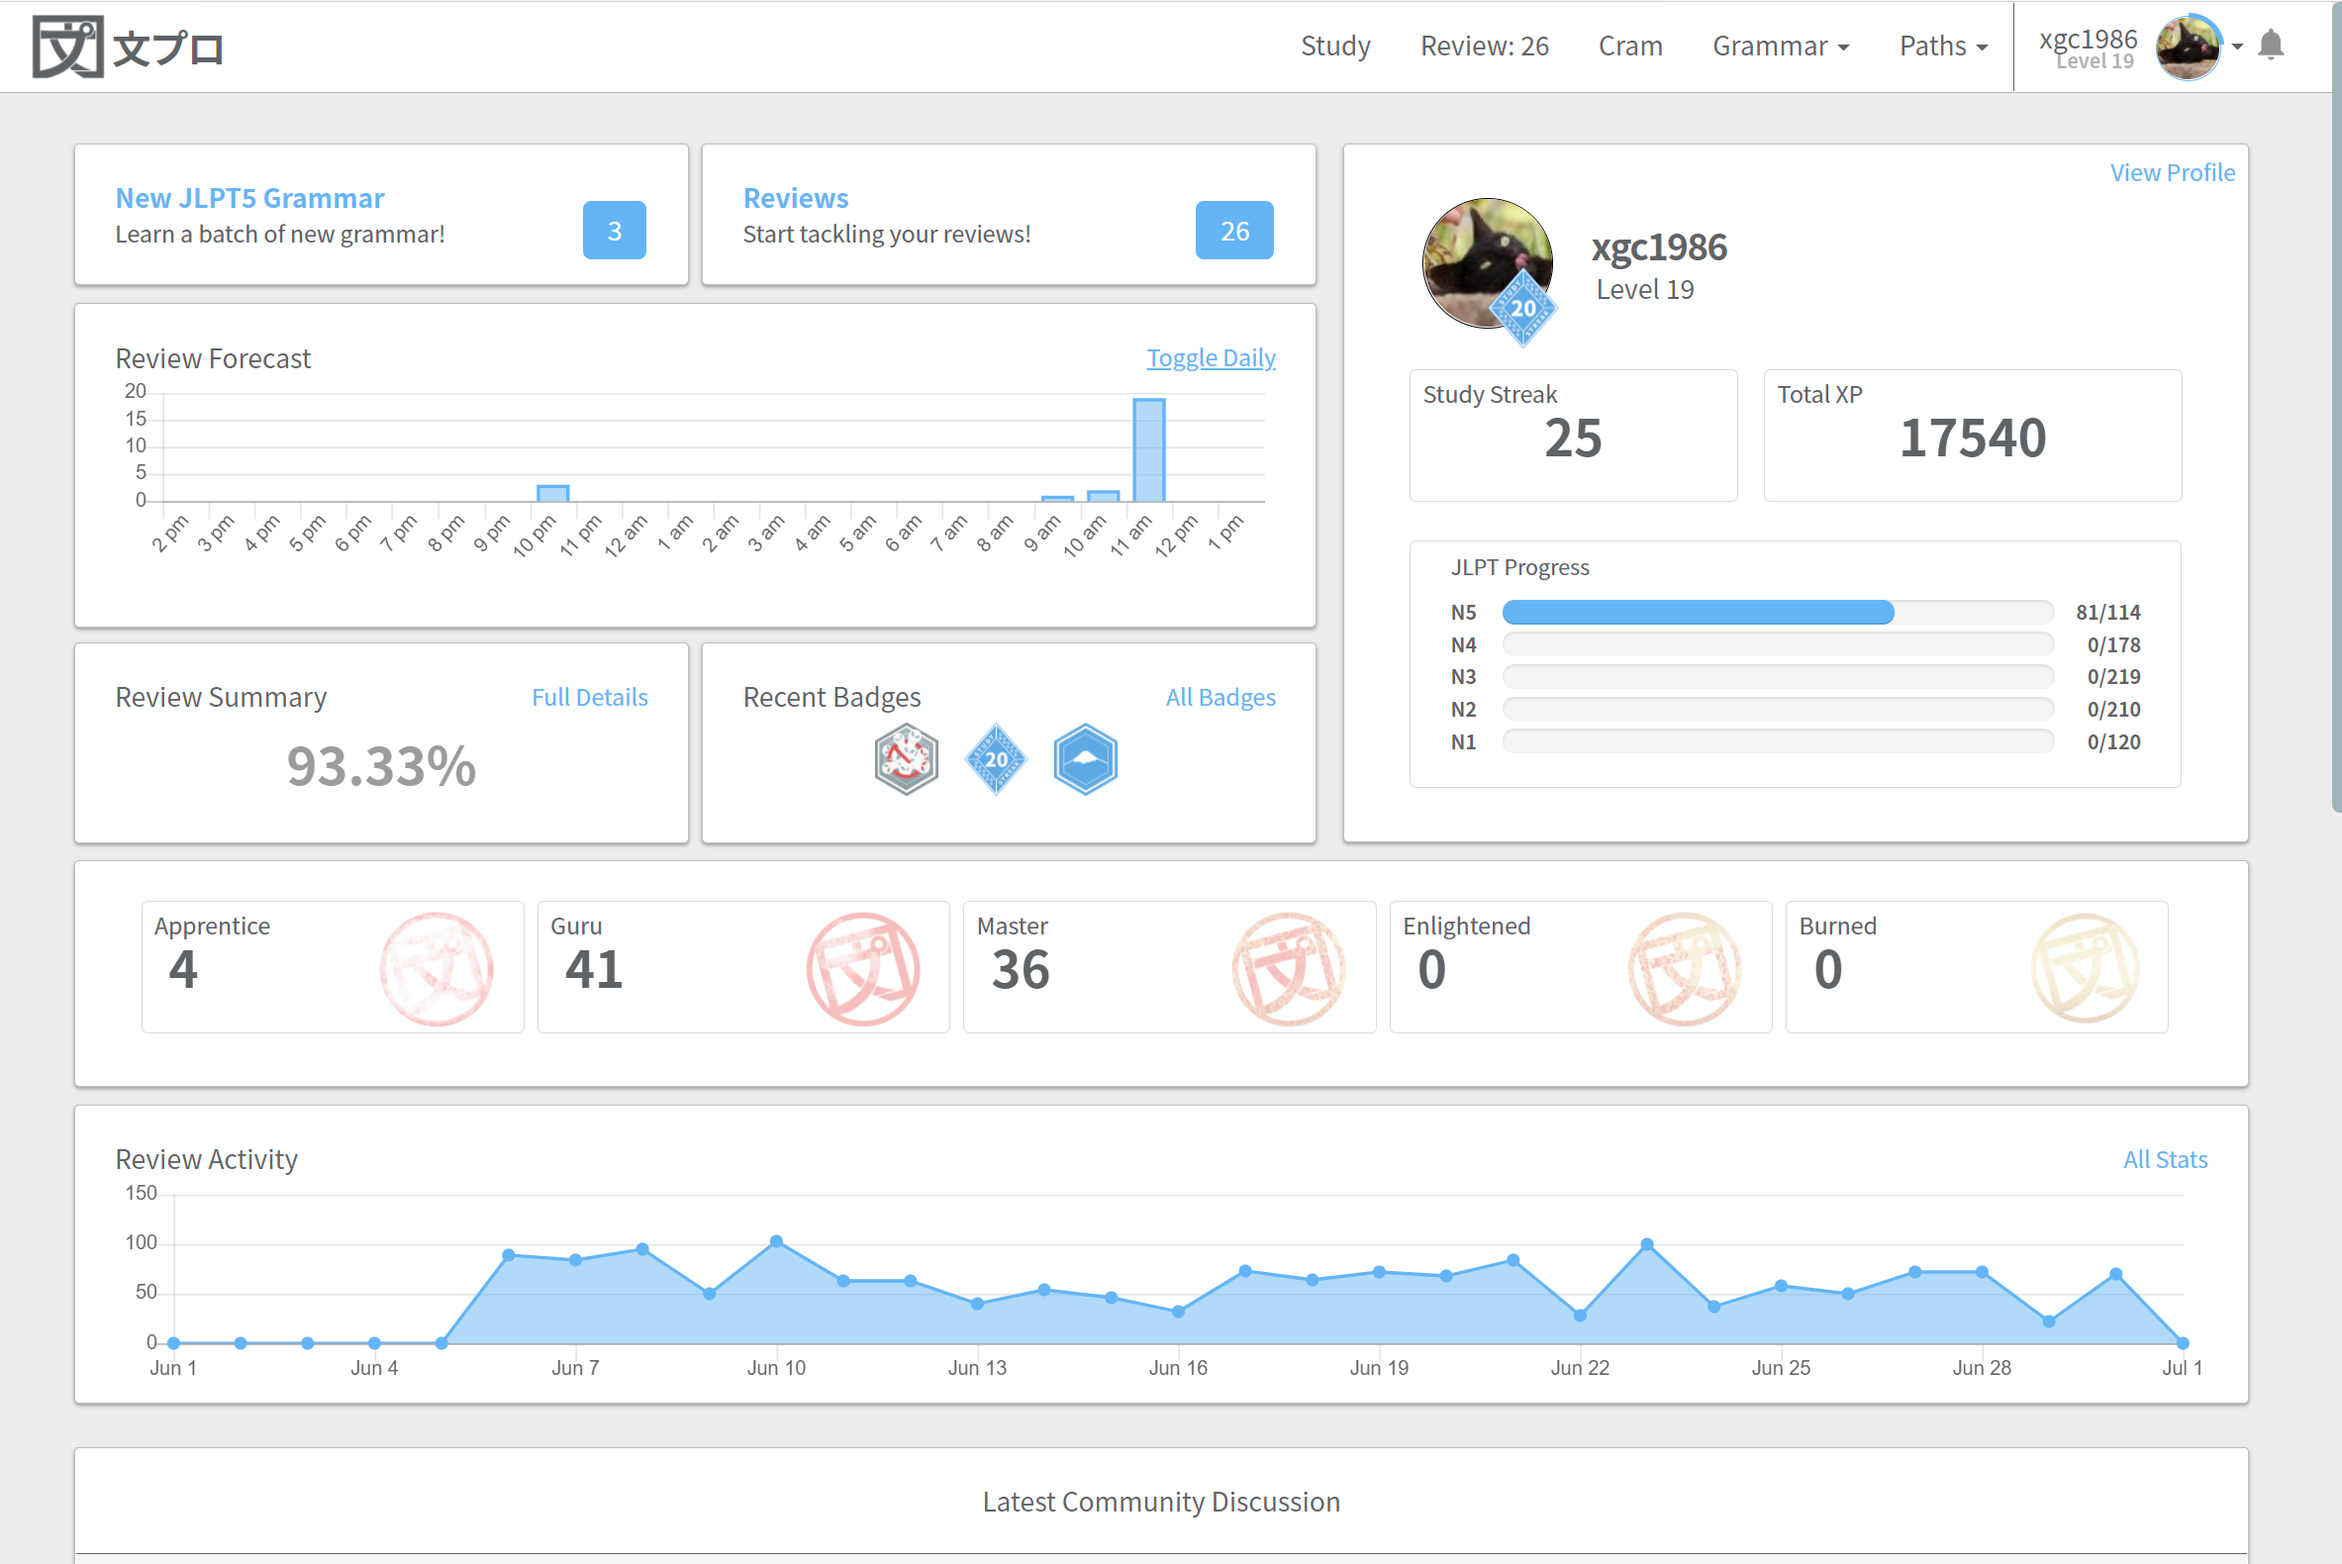
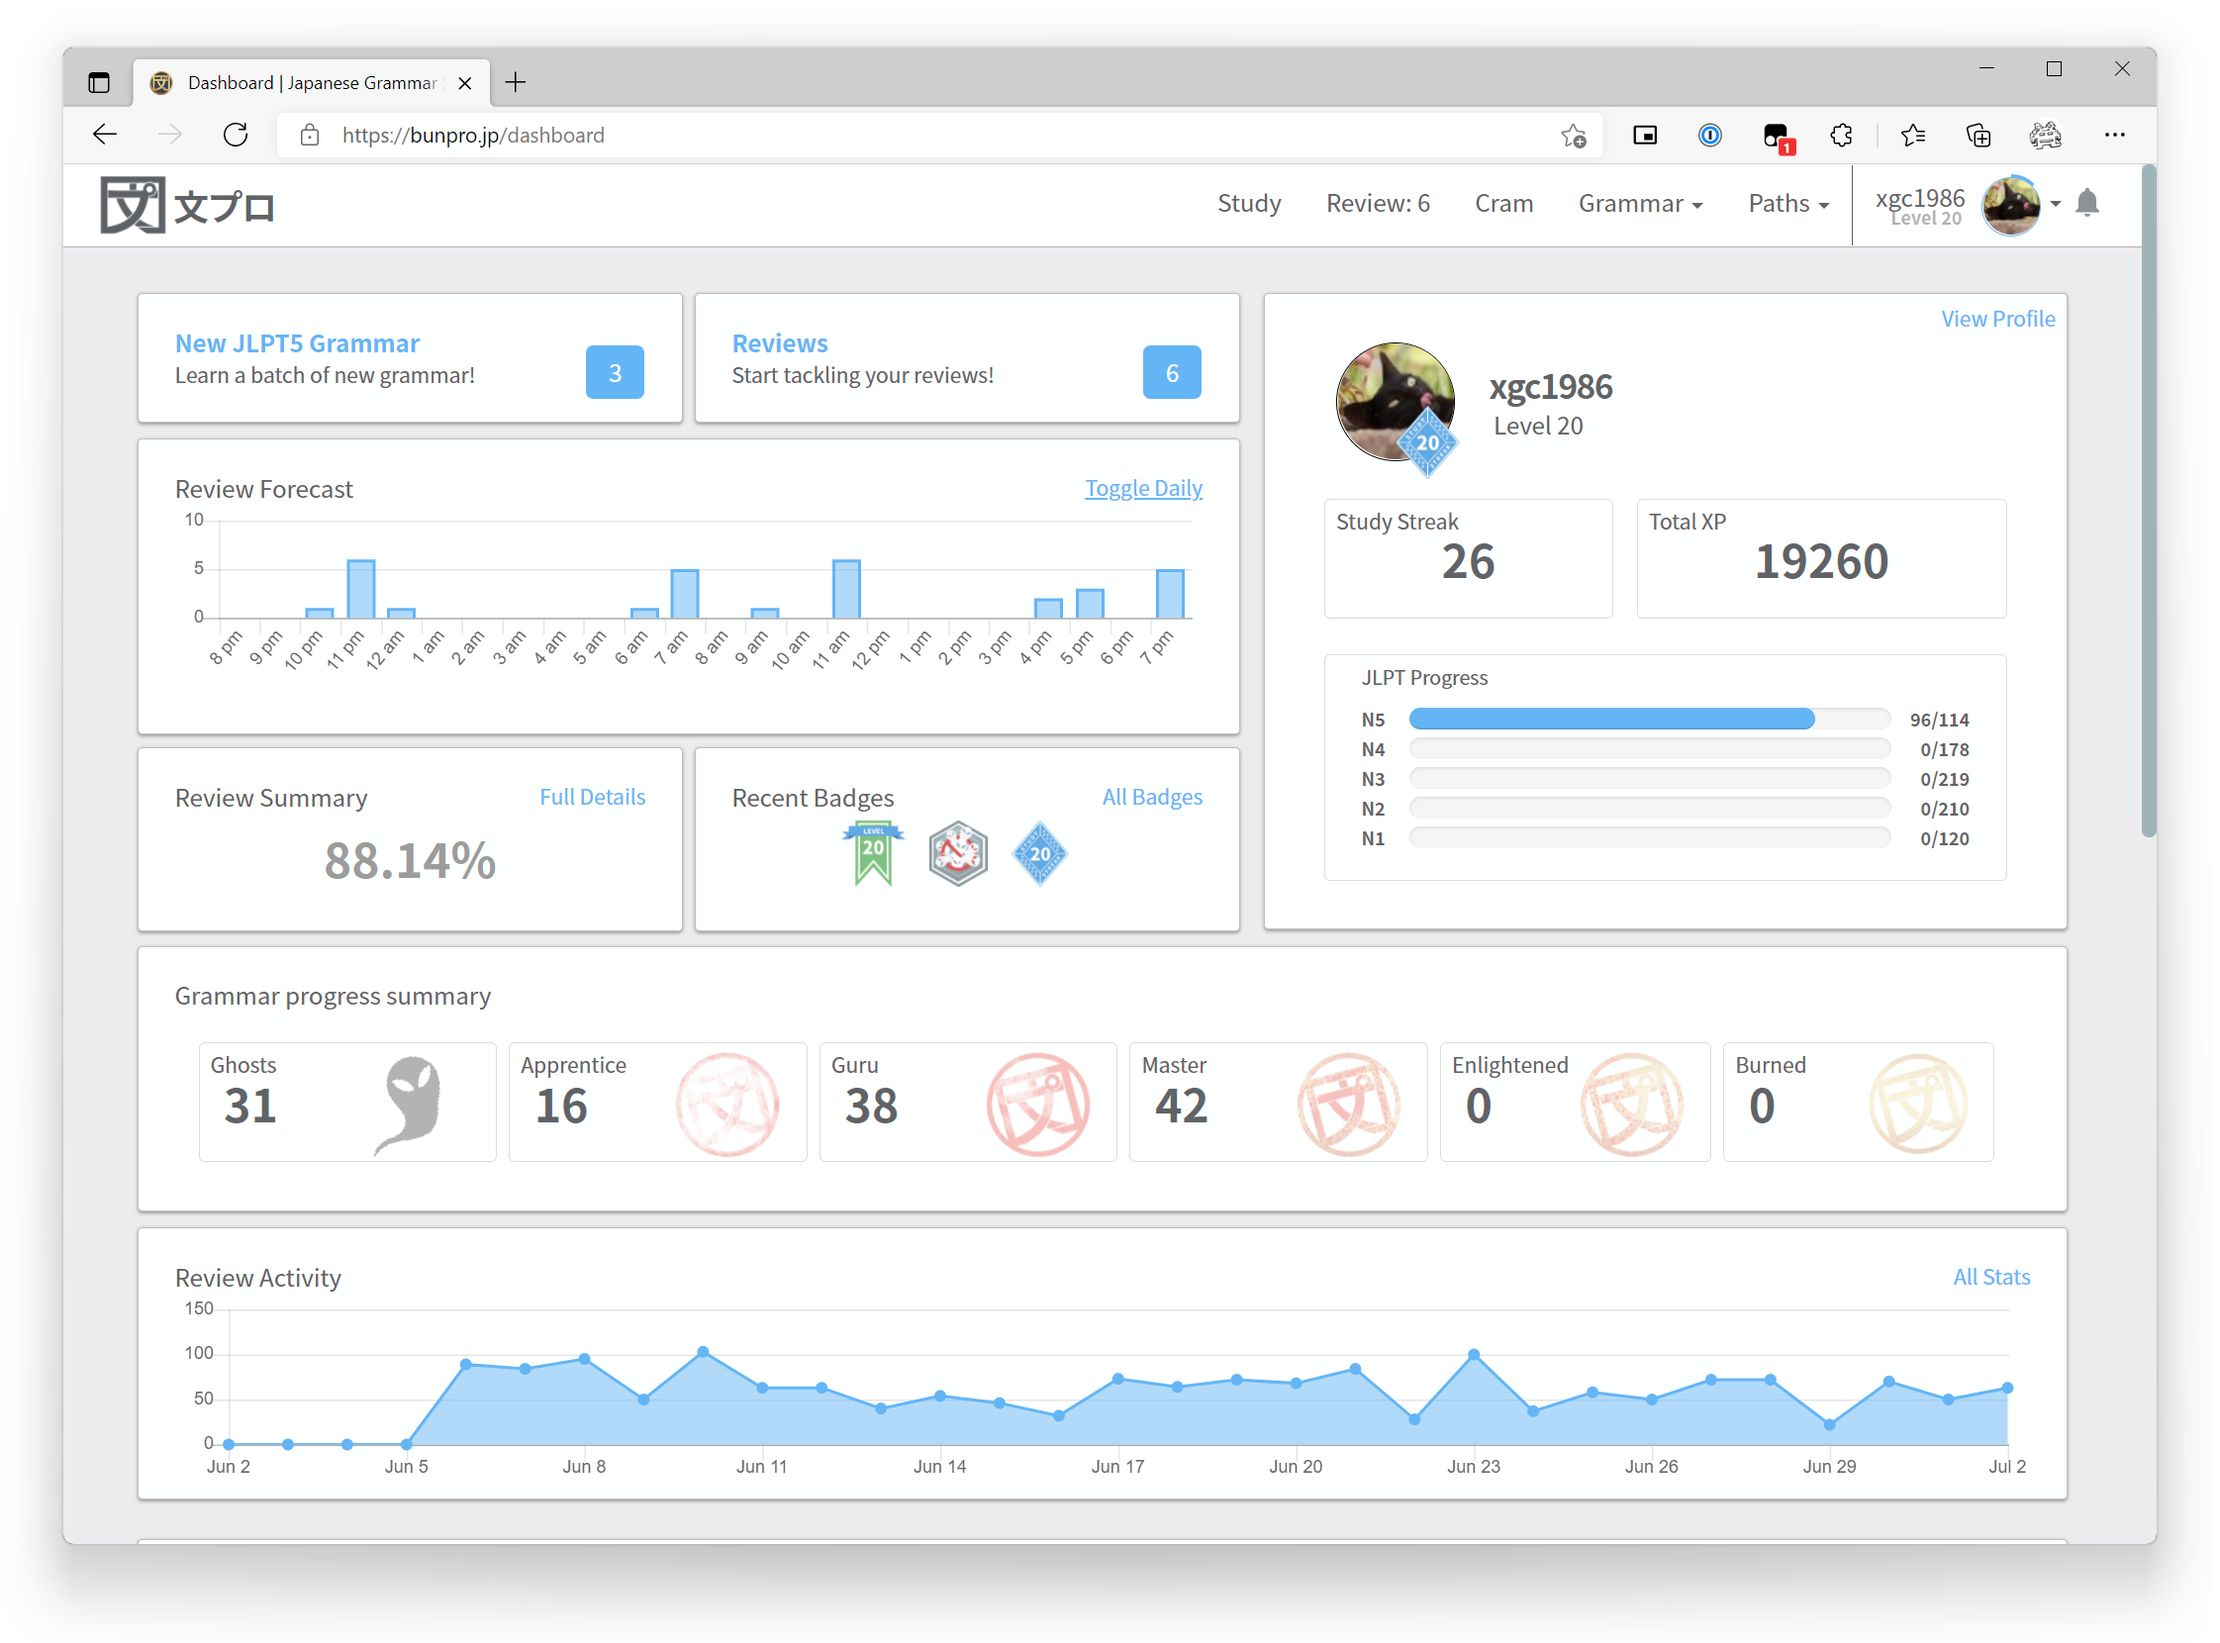
first commit

Changed region(s): [[0.0, 0.0, 1.0, 1.0], [0.749, 0.2481, 0.7802, 0.2791], [0.3433, 0.3101, 0.3745, 0.3411]]

diff --git a/bunpro.js b/bunpro.js
@@ -1,6 +1,32 @@
-(function () {
+// ==UserScript==
+// @name         BunPro++
+// @namespace    Xgc
+// @version      1.1.0
+// @description  Just addons to make my life simpler, and for fun.
+// @author       xgc1986
+// @include      /https:\/\/(www.){0,1}bunpro.jp\//
+// @grant        none
+// ==/UserScript==
 
-    async function run() {
+(function () {
+    "use stricct";
+    const loadCb = [];
+
+    function onLoad(query, cb) {
+        if (!loadCb[query]) {
+            loadCb[query] = [];
+        }
+        loadCb[query].push(cb);
+
+        const items = document.querySelectorAll(query);
+        for (const item of items) {
+            for (const cb of (loadCb[query] || [])) {
+                cb(item);
+            }
+        }
+    }
+
+    async function setup() {
         const style = document.createElement('style');
         style.textContent = `
             .extra-badge-0::before {
@@ -17,6 +43,29 @@
             }
             .extra-badge-4::before {
                 background: url(https://d2o2t59m50yv2e.cloudfront.net/images/BunproHanko12PNG.png);
+            }
+            .bpp-ghosts-info::before {
+                background: url(https://d2o2t59m50yv2e.cloudfront.net/images/GhostReviewIconPNGBlack.png);
+                background-size: 100px;
+                background-repeat: no-repeat;
+                background-position-x: 100%;
+                opacity: 0.3;
+                content: "";
+                position: absolute;
+                width: 100px;
+                height: 100px;
+                top: 0%;
+                right: 0;
+                transform: rotate(-15deg) scale(0.9);
+                background-overflow: visible;
+                overflow: hidden;
+            }
+
+            .modern-dark .bpp-ghosts-info::before {
+                background: url(https://d2o2t59m50yv2e.cloudfront.net/images/GhostReviewIconPNG.png);
+                background-size: 100px;
+                background-repeat: no-repeat;
+                background-position-x: 100%;
             }
 
             .extra-badge::before {
@@ -38,57 +87,72 @@
 
         document.head.appendChild(style);
 
-        const profileRaw = await (await fetch("https://bunpro.jp/user/profile/stats", {
-            "headers": {
-            },
-            "referrerPolicy": "strict-origin-when-cross-origin",
-            "body": null,
-            "method": "GET",
-            "mode": "cors",
-            "credentials": "include"
-        })).text();
-
-        const levels = JSON.parse(profileRaw.match(/\[[\d]+, [\d]+, [\d]+, [\d]+, [\d]+, [\d]+, [\d]+, [\d]+, [\d]+, [\d]+, [\d]+, [\d]+, [\d]+\]/)[0]);
-        const stats = [0, 0, 0, 0, 0];
-
-        for (const i in levels) {
-            let stat = 0;
-            if (i < 4) {
-                stat = 0;
-            } else if (i < 7) {
-                stat = 1;
-            } else if (i < 9) {
-                stat = 2;
-            } else if (i < 11) {
-                stat = 3;
-            } else {
-                stat = 4;
-            }
-
-            stats[stat] += levels[i];
-        }
-
-        if (location.href === 'https://bunpro.jp/dashboard') {
-            buildStatsPanel(stats);
-        }
+        const target = document.querySelector('html');
+        const observer = new MutationObserver((mutations) => {
+            mutations.forEach((mutation) => {
+                for (const node of mutation.addedNodes) {
+                    for (const query in loadCb) {
+                        const items = document.querySelectorAll(query);
+                        for (const item of items) {
+                            for (const cb of (loadCb[query] || [])) {
+                                cb(item);
+                            }
+                        }
+                    }
+                }
+            });
+        });
+        var config = { attributes: false, childList: true, characterData: false };
+        observer.observe(target, config);
     }
 
-    function buildStatsPanel(stats) {
+    let progressStats = ['-', '-', '-', '-', '-'];
+    let progressGhosts = '-';
+    onLoad('#user-dashboard', (element) => {
+        const panels = element.querySelectorAll('.dashboard-tile');
+        const anchor = panels[panels.length - 2];
+        
+        if (!anchor) {
+            refreshProgress(element);
+            return;
+        }
+
+        const oldPanel = document.querySelector('.bpp-progress-panel');
+        if (oldPanel) {
+            oldPanel.remove();
+        }
 
         const texts = ['Apprentice', 'Guru', 'Master', 'Enlightened', 'Burned'];
         const panel = document.createElement('div');
-        panel.classList.add('dashboard-tile', 'pt-4', 'pb-2', 'flex-grow-1', 'd-flex', 'flex-row', 'align-items-start', 'px-lg-4', 'px-2');
+        panel.classList.add('dashboard-tile', 'pt-4', 'pb-2', 'flex-grow-1', 'd-flex', 'flex-row', 'align-items-start', 'px-lg-4', 'px-2', 'bpp-progress-panel');
+
+        const panelHeader = document.createElement('div');
+        panel.appendChild(panelHeader);
+        panelHeader.textContent = 'Grammar progress summary';
+
         const row = document.createElement('div');
         row.classList.add('d-flex', 'align-items-center', 'justify-content-center', 'mb-4', 'mx-lg-3', 'mx-1', 'flex-grow-1');
-        panel.appendChild(row);
-        
-        const panels = document.querySelectorAll('.dashboard-tile');
-        const anchor = panels[panels.length - 2];
+        panelHeader.appendChild(row);
 
-        for (const i in stats) {
+        const ghostsInfo = document.createElement('div');
+        ghostsInfo.classList.add('px-3', 'py-4', 'mr-2', 'stats-tile', 'flex-grow-1', 'bpp-ghosts-info');
+
+        const header = document.createElement('span');
+        header.classList.add('header');
+        header.textContent = 'Ghosts';
+        ghostsInfo.appendChild(header);
+
+        const value = document.createElement('span');
+        value.classList.add('stat');
+        value.textContent = `${progressGhosts}`;
+        ghostsInfo.appendChild(value);
+
+        row.appendChild(ghostsInfo);
+
+        for (const i in progressStats) {
             const info = document.createElement('div');
             info.classList.add('px-3', 'py-4', 'mr-2', 'stats-tile', 'flex-grow-1', 'extra-badge', `extra-badge-${i}`);
-            
+
             const header = document.createElement('span');
             header.classList.add('header');
             header.textContent = texts[i];
@@ -96,14 +160,86 @@
 
             const value = document.createElement('span');
             value.classList.add('stat');
-            value.textContent = stats[i];
+            value.textContent = progressStats[i];
             info.appendChild(value);
 
             row.appendChild(info);
         }
 
         anchor.parentElement.insertBefore(panel, anchor);
+
+        refreshProgress(element);
+    });
+
+    async function refreshProgress(element) {
+        (async function () {
+            const profileRaw = await (await fetch("/user/profile/stats", {
+                "headers": {
+                },
+                "referrerPolicy": "strict-origin-when-cross-origin",
+                "body": null,
+                "method": "GET",
+                "mode": "cors",
+                "credentials": "include"
+            })).text();
+
+            const levels = JSON.parse(profileRaw.match(/\[[\d]+, [\d]+, [\d]+, [\d]+, [\d]+, [\d]+, [\d]+, [\d]+, [\d]+, [\d]+, [\d]+, [\d]+, [\d]+\]/)[0]);
+            const stats = [0, 0, 0, 0, 0];
+            const ghosts = progressGhosts;
+
+            for (const i in levels) {
+                let stat = 0;
+                if (i < 4) {
+                    stat = 0;
+                } else if (i < 7) {
+                    stat = 1;
+                } else if (i < 9) {
+                    stat = 2;
+                } else if (i < 11) {
+                    stat = 3;
+                } else {
+                    stat = 4;
+                }
+
+                stats[stat] += levels[i];
+            }
+
+            renderProgress(element, { stats, ghosts });
+        })();
+
+        (async function () {
+            const profileRaw = await (await fetch("/summary", {
+                "headers": {
+                },
+                "referrerPolicy": "strict-origin-when-cross-origin",
+                "body": null,
+                "method": "GET",
+                "mode": "cors",
+                "credentials": "include"
+            })).text();
+
+            const ghosts = profileRaw.match(/Ghost: \d+\/(\d+)/)[1];
+            const stats = progressStats;
+            renderProgress(element, { stats, ghosts });
+        })();
     }
 
-    run();
+    function renderProgress(element, props) {
+        progressStats = props.stats;
+        progressGhosts = props.ghosts;
+
+        for (const i in progressStats) {
+            const stat = element.querySelector(`.extra-badge-${i}`);
+            if (stat) {
+                stat.children[1].textContent = progressStats[i];
+            }
+        }
+
+        const ghostStat = element.querySelector(`.bpp-ghosts-info`);
+        if (ghostStat) {
+            ghostStat.children[1].textContent = progressGhosts;
+        }
+    }
+
+    setup();
 })();

diff --git a/kitsun.js b/kitsun.js
@@ -1,0 +1,26 @@
+(function () {
+    window.addEventListener('keydown', (e) => {
+        if (e.code === "Enter") {
+            setTimeout(() => {
+                const audio = document.querySelector('audio');
+                if (audio) {
+                    audio.play();
+                }
+            }, 200);
+        }
+
+        if (e.code === 'ControlRight') {
+            const audio = document.querySelector('audio');
+            if (audio) {
+                audio.play();
+            }
+        }
+
+        if (e.code === 'Backspace') {
+            const retry = document.querySelector('.ignore_btn ');
+            if (retry) {
+                retry.click();
+            }
+        }
+    });
+})();
